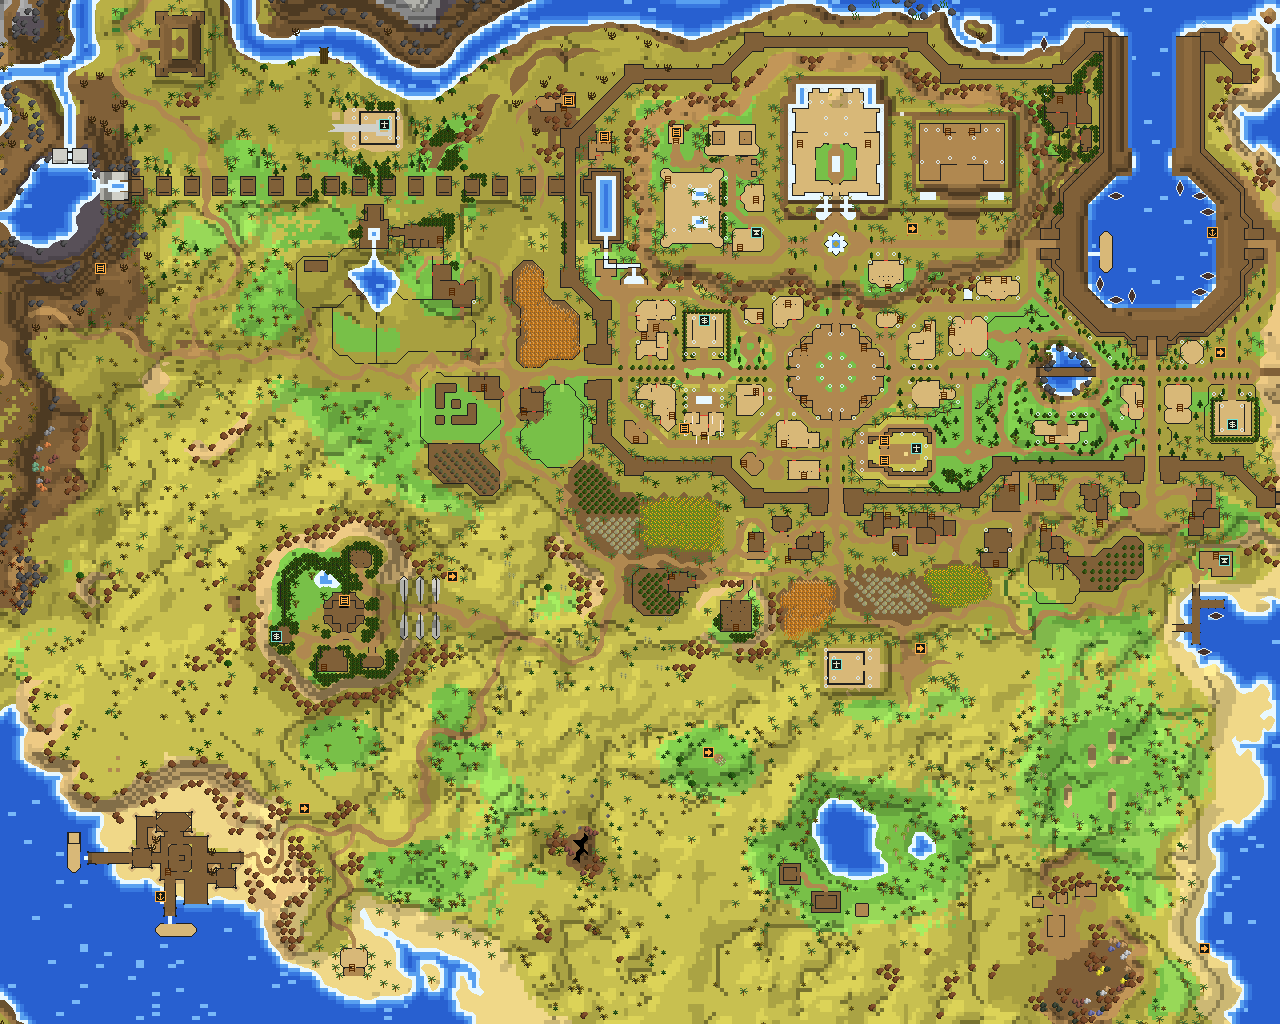
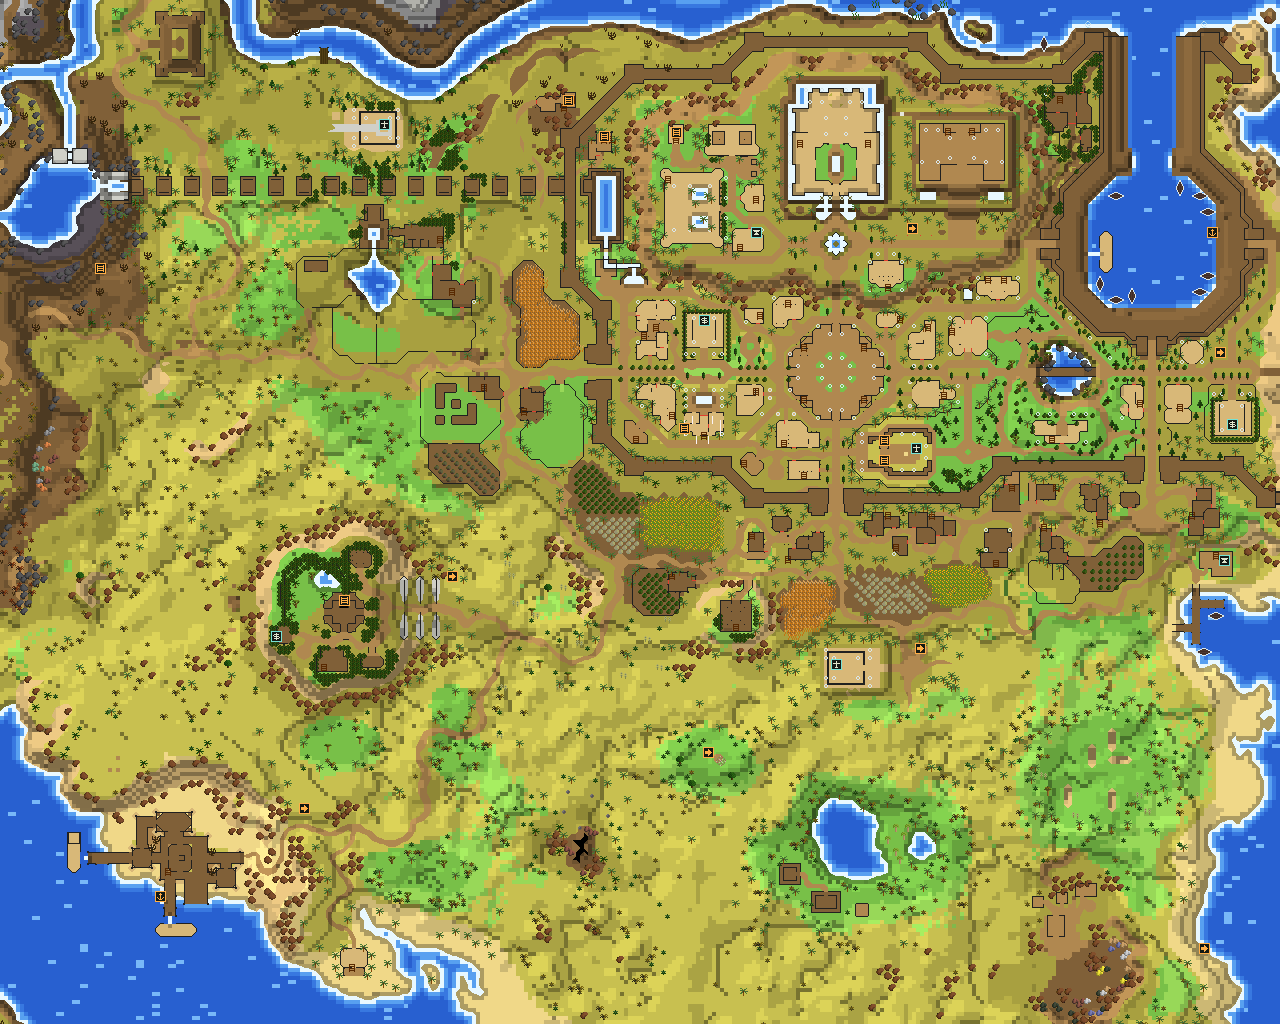
Rim tactical coastlines on the land side
Land tiles that are partly water or border water on any side are
darkened by a per-palette coastShade, so every coast and river bank has
an edge on the land side to match the foam line on the water side.

diff --git a/src/main/java/mapstyle/TacticalStyle.java b/src/main/java/mapstyle/TacticalStyle.java
@@ -17,7 +17,8 @@ import net.runelite.cache.region.Location;
  * as a cliff shadow on tiles at the foot of a step (the step is to their
  * north or west), or as contour lines on every terrace edge. A three-level
  * hillshade adds the slope within a terrace. Water is banded by distance to
- * land, with a foam line along every shore.
+ * land, with a foam line along every shore and a darker rim on the land
+ * side.
  */
 final class TacticalStyle implements MapStyle
 {
@@ -55,6 +56,8 @@ final class TacticalStyle implements MapStyle
 		/** Contour-line colour on every terrace edge, or -1 for a cliff shadow instead. */
 		int contour = -1;
 		double cliffShadow = 0.70;
+		/** Brightness of land tiles touching water: the land side of the coastline. */
+		double coastShade = 0.72;
 		double lit = 1.12;
 		double shaded = 0.86;
 	}
@@ -154,6 +157,7 @@ final class TacticalStyle implements MapStyle
 		p.wall = 0x4A3B2C;
 		p.door = 0xB4442E;
 		p.contour = 0x9A7A55;
+		p.coastShade = 0.85;
 		p.lit = 1.0;
 		p.shaded = 1.0;
 
@@ -203,7 +207,7 @@ final class TacticalStyle implements MapStyle
 	@Override
 	public int underlay(int rgb, UnderlayDefinition underlay, int x, int y, int z, Terrain terrain)
 	{
-		return relief(ground(rgb), x, y, z, terrain);
+		return coast(relief(ground(rgb), x, y, z, terrain), x, y, z, terrain);
 	}
 
 	@Override
@@ -217,7 +221,29 @@ final class TacticalStyle implements MapStyle
 		{
 			return water(x, y, z, terrain);
 		}
-		return relief(surface(rgb), x, y, z, terrain);
+		return coast(relief(surface(rgb), x, y, z, terrain), x, y, z, terrain);
+	}
+
+	/**
+	 * Darkens land on the shoreline: a tile that is itself partly water (a
+	 * shaped overlay) or has water on any side. Gives every coast and river
+	 * bank a land-side edge to match the foam line on the water side.
+	 */
+	private int coast(int rgb, int x, int y, int z, Terrain terrain)
+	{
+		if (isWaterAt(terrain, x, y, z)
+			|| isWaterAt(terrain, x + 1, y, z) || isWaterAt(terrain, x - 1, y, z)
+			|| isWaterAt(terrain, x, y + 1, z) || isWaterAt(terrain, x, y - 1, z))
+		{
+			return Styles.shade(rgb, p.coastShade);
+		}
+		return rgb;
+	}
+
+	private static boolean isWaterAt(Terrain terrain, int x, int y, int z)
+	{
+		int rgb = terrain.overlay(x, y, z);
+		return rgb > 0 && isWater(terrain.overlayDefinition(x, y, z), rgb);
 	}
 
 	@Override

diff --git a/README.md b/README.md
@@ -196,7 +196,9 @@ the hooks:
   `Terrain.overlay` to see neighbouring tiles up to 4 tiles away. The bands
   are a pale foam line (≤ 1.4 tiles), two shallow bands, then deep teal with
   sparse two-tile wave dashes. Rivers come out as foam banks around a
-  shallow channel. A tile counts as water by its displayed colour or by
+  shallow channel. On the land side, any tile that is partly water or has
+  water on one of its four sides is darkened (`coastShade`), so every
+  coast and river bank also has a land-side edge. A tile counts as water by its displayed colour or by
   definition (a blue base colour on a textured or two-colour overlay). The
   definition test catches Sailing's regional seas, whose textures average
   outside the blue window. Sailing also textures those seas with thousands
@@ -241,8 +243,7 @@ Not done yet: RuneLite's object sprites still use RuneScape art: trees and
 rocks (a real tactics look wants our own forest and mountain glyphs) and
 in-building ladders and stairs, which matter for routing and need an
 object-sprite hook. Quest starts may deserve a quieter third badge kind.
-Rocky coasts have foam but no land-side edge, and the palette has only
-been checked by eye against the planner.
+The palette has only been checked by eye against the planner.
 
 ## The whole world
 
